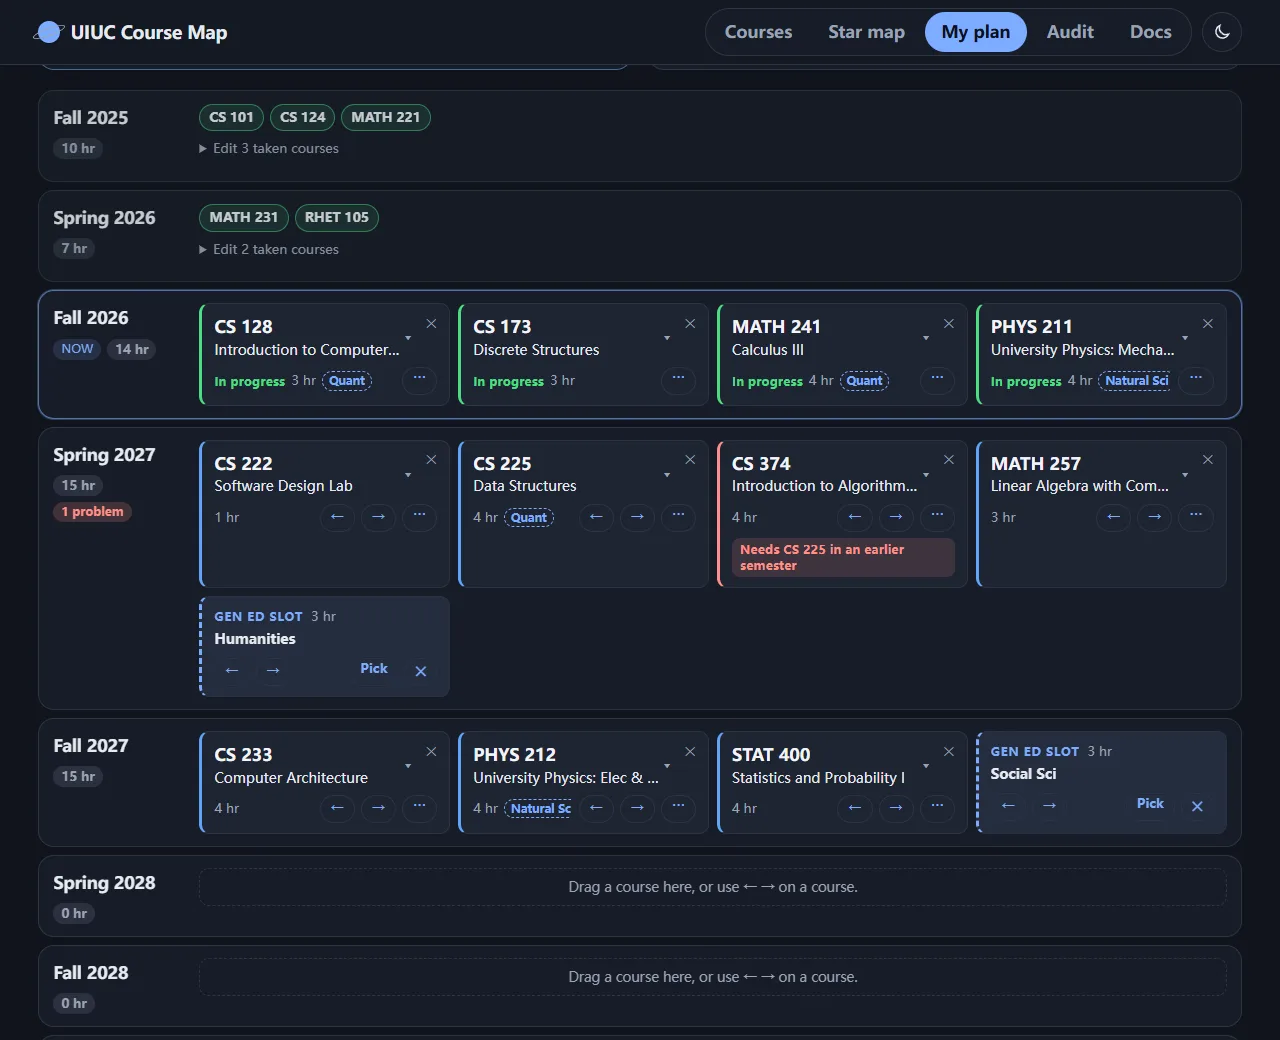
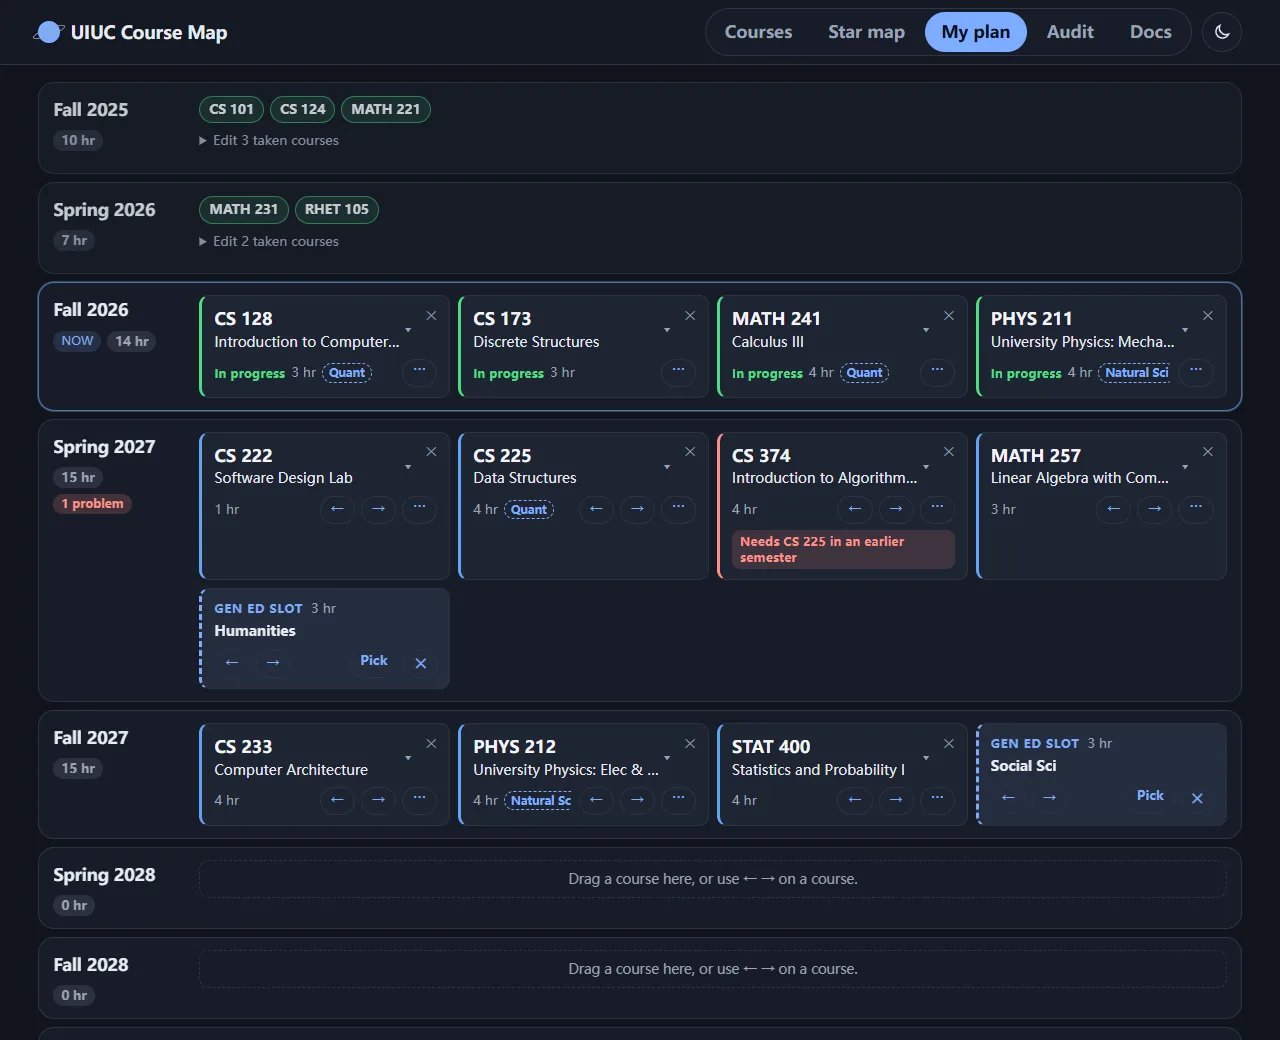
Publish the site from commit 3e0f875

diff --git a/README.md b/README.md
@@ -19,10 +19,10 @@ nothing is typed in by hand.
 - **Plan your degree**: lay courses out by semester, drag them around, and see problems like a
   prerequisite in the wrong semester.
 - **Upload your degree audit** (the uAchieve PDF) to see what's left, and let **Auto-plan** fill the
-  remaining semesters, leaving Gen Eds as slots for you to pick.
+  remaining semesters, leaving Gen Eds and free electives as slots for you to pick.
 
-The [Docs page](https://terryduan-chn.github.io/uiuc-course-map/#docs) explains every feature, how
-the data and Auto-plan work, and common questions.
+The [Docs page](https://terryduan-chn.github.io/uiuc-course-map/#docs) explains every feature, with
+live demos you can click on a sample plan, plus how the data and Auto-plan work and common questions.
 
 ## Privacy
 
@@ -41,7 +41,7 @@ index.html   the page
 css/         styles: the whole site, your plan and audit, the docs
 js/          the app, one file per page or job (app.js starts it)
 data/        courses.db, every course, prerequisite, Gen Ed and GPA
-docs/        the Docs page's text and pictures
+docs/        the Docs page's text, and the picture above
 ```
 
 Data sources:
